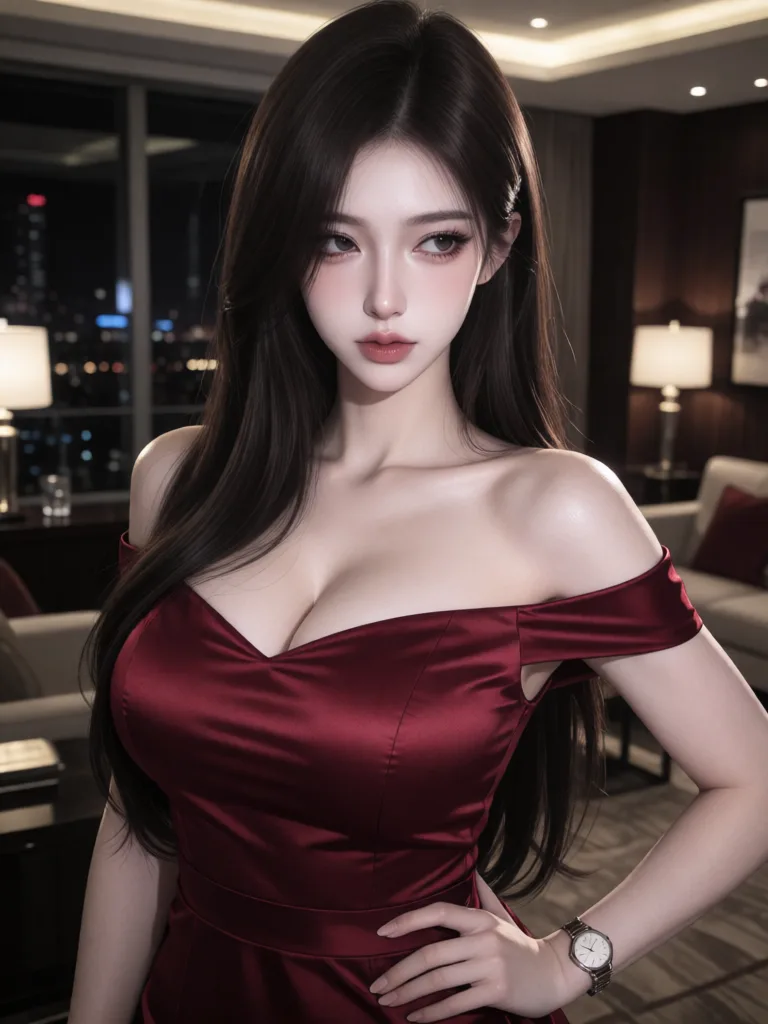
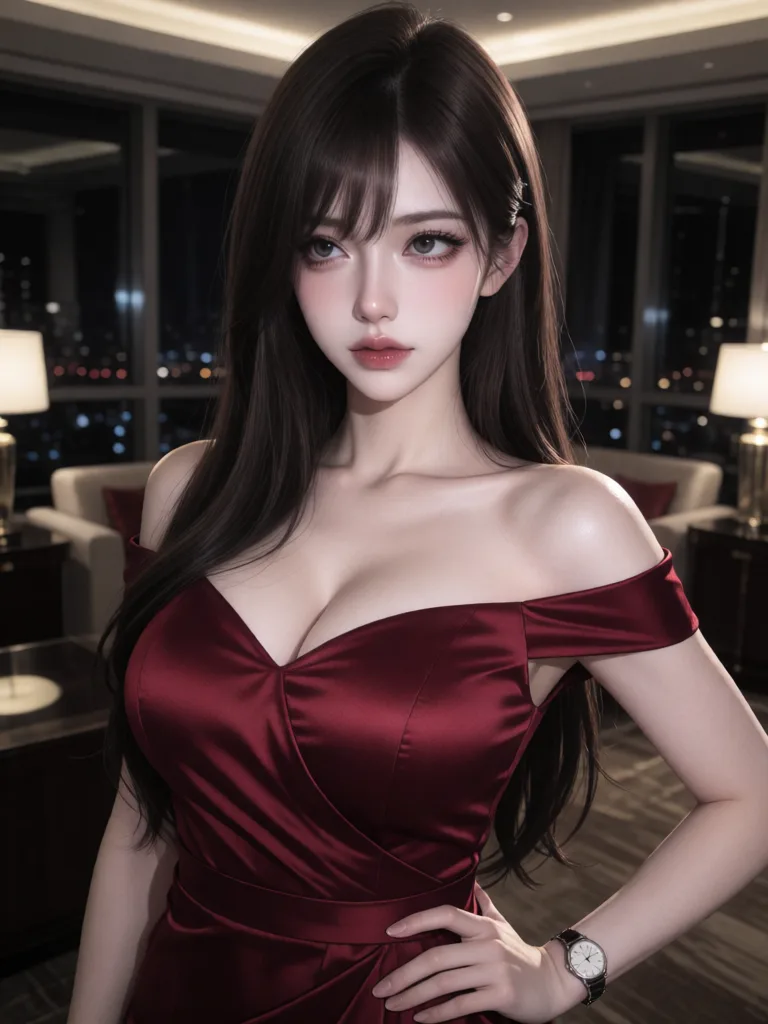
feat(characters): clearer "thinking" expression for Serena
The previous one looked like her portrait; this one glances to the side with
pursed lips. Same pose, so no hand problems.

diff --git a/CLAUDE.md b/CLAUDE.md
@@ -194,8 +194,7 @@ expression; bigger reply avatars and mood cards; header picture blur fix for iPh
      real "name:" lines, and whether the model always adds `พื้นหลัง=`.
    - Not yet checked on the owner's iPhone: the header picture no longer blurred; reply avatar / mood card sizes.
    - Expressions: ellie, ash, vivienne have only happy/shy/sad/angry (teasing/worried fall back, thinking/surprised
-     show the portrait); the owner asked for Serena only so far. Serena's "thinking" is still close to her portrait.
-     tensor.art credits left ~10.8 (about 3 Img2Img pictures).
+     show the portrait); the owner asked for Serena only so far. tensor.art credits left ~8 (about 2 Img2Img pictures).
    - Old chats of the 12 removed presets still sit in storage (`chat_history_<id>` etc.); harmless, could be cleaned.
 7. **Feature rounds agreed with the owner** (one round at a time, used for a few days before the next):
    - Round 1 — done 2026-10-21, live; home-screen install + login on iPhone confirmed working.

diff --git a/worklog.md b/worklog.md
@@ -9,6 +9,7 @@
 - `components/ChatMessage.jsx`: ป้ายชื่อตัวละครสมทบ 11→13px
 - ตรวจ: ความยาวทุกช่องยังอยู่ในขีดจำกัด, `next build` ผ่าน
 - ไม่ได้ทำ: ลบแชทเก่าของ 12 ตัวที่ลบไป (อยู่ในบัญชี Supabase ของเจ้าของ ต้องล็อกอิน และเป็นการลบถาวร)
+- รูป "คิด" ของเซเรน่าทำใหม่ (denoise 0.72, เหลือบตามองด้านข้าง ปากเม้ม เอียงหัว) ต่างจากรูปหลักชัดแล้ว มือปกติ ไม่มีคนด้านหลัง; เครดิต tensor.art เหลือ 8.00
 
 ---
 ## 2026-10-28 — API key สำรองของ Gemini (สลับเองเมื่อโควตาหมด)
